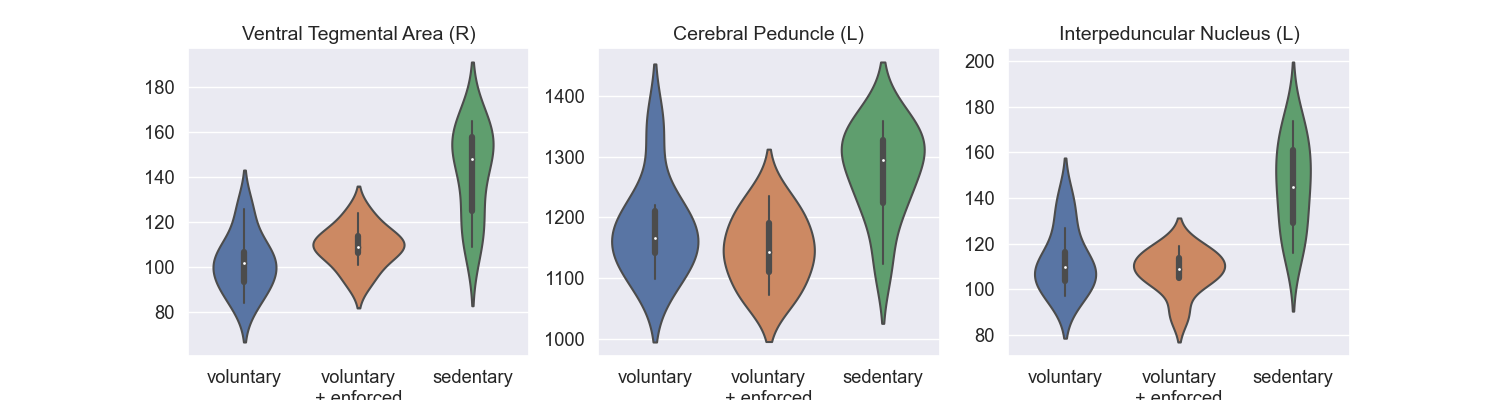
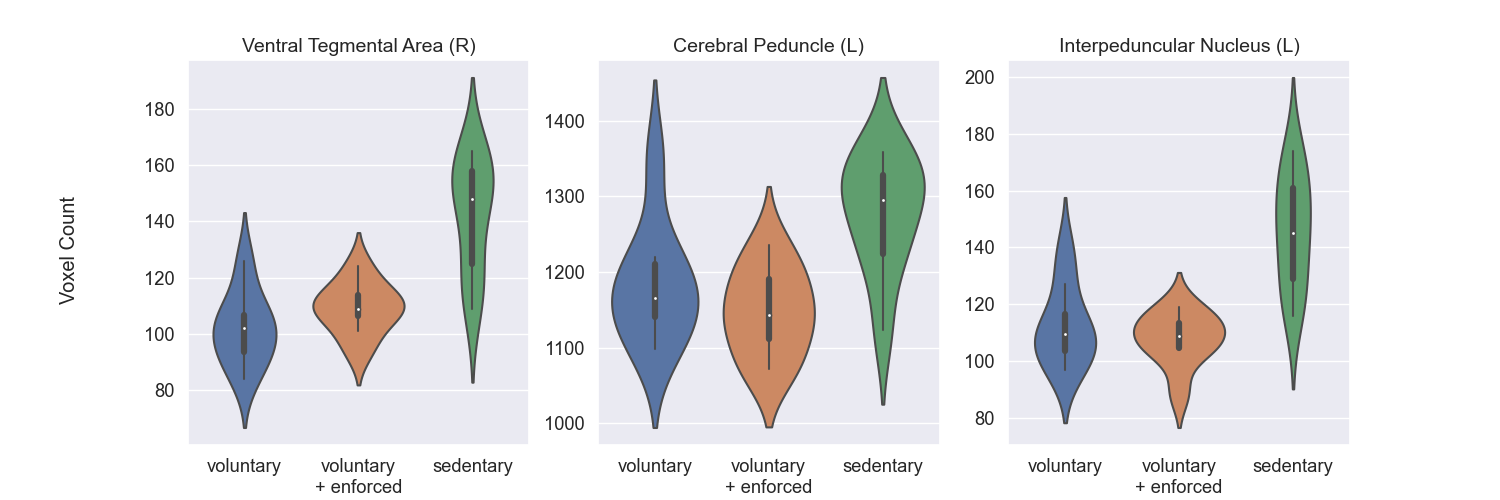
Add TODOs in Normalization.py and read_posthoc.py so that output figures don't display voxel counts but voxel proportions; update figures to have a vertical axis label

diff --git a/Statistical Analysis/read_posthoc.py b/Statistical Analysis/read_posthoc.py
@@ -56,10 +56,13 @@ sns.set(font_scale = 1.2)
 title_groups = ['Sedentary vs. Voluntary + Enforced Exercise','Sedentary vs. Voluntary Exercise','Voluntary vs. Voluntary + Forced Exercise']
 title_dict = {comp_groups[i]: title_groups[i] for i in range(len(comp_groups))}
 
+# TODO: Update voxvol CSV so that reported figures have a Y-axis of proportinoal brain volumes rather than voxel count
+# TODO: Consider how to repress matplotlib deprecation errors
 for listframe in range(len(top_regs)):
-    fig, axes = plt.subplots(1, 3, figsize=(15, 4))
+    fig, axes = plt.subplots(1, 3, figsize=(15, 5))
     fig.suptitle('Most Significant Regions via Post-Hoc Analysis\n({})'.format(title_dict[comp_groups[listframe]]),
                  y=1.15, fontsize=16)
+    fig.text(0.04, 0.5, 'Voxel Count', va='center', rotation='vertical')
     for val in range(top_regs_num):
         name = top_regs[listframe].iloc[val,0]
         reg = name_dict[name]

diff --git a/Scripts/Normalization.py b/Scripts/Normalization.py
@@ -136,6 +136,7 @@ for x in filenames:
         reg_iso = np.multiply(np.array(corrected_image), reg_mask)  # Isolated Region (image)
         mean_val = np.sum(reg_iso) / np.count_nonzero(reg_mask)  # Mean intensity value
 
+        # For whole-brain proportions, change 'np.count_nonzero(reg_mask)' to 'np.count_nonzero(reg_mask)/np.count_nonzero(corrected_image)' and re-run code
         val_arr = [abb_updated[k], atlas.get(abb_updated[k]), np.count_nonzero(reg_mask), mean_val]
         datf.append(val_arr)
 
